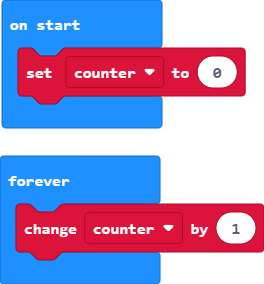
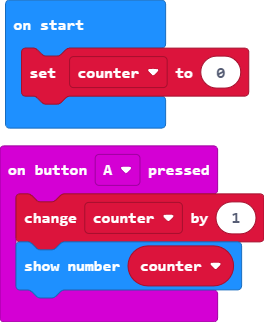
pocitadlo na tlacidlo

diff --git a/main.ts b/main.ts
@@ -1,4 +1,6 @@
-let counter = 0
-basic.forever(function () {
+input.onButtonPressed(Button.A, function () {
     counter += 1
+    basic.showNumber(counter)
 })
+let counter = 0
+counter = 0
